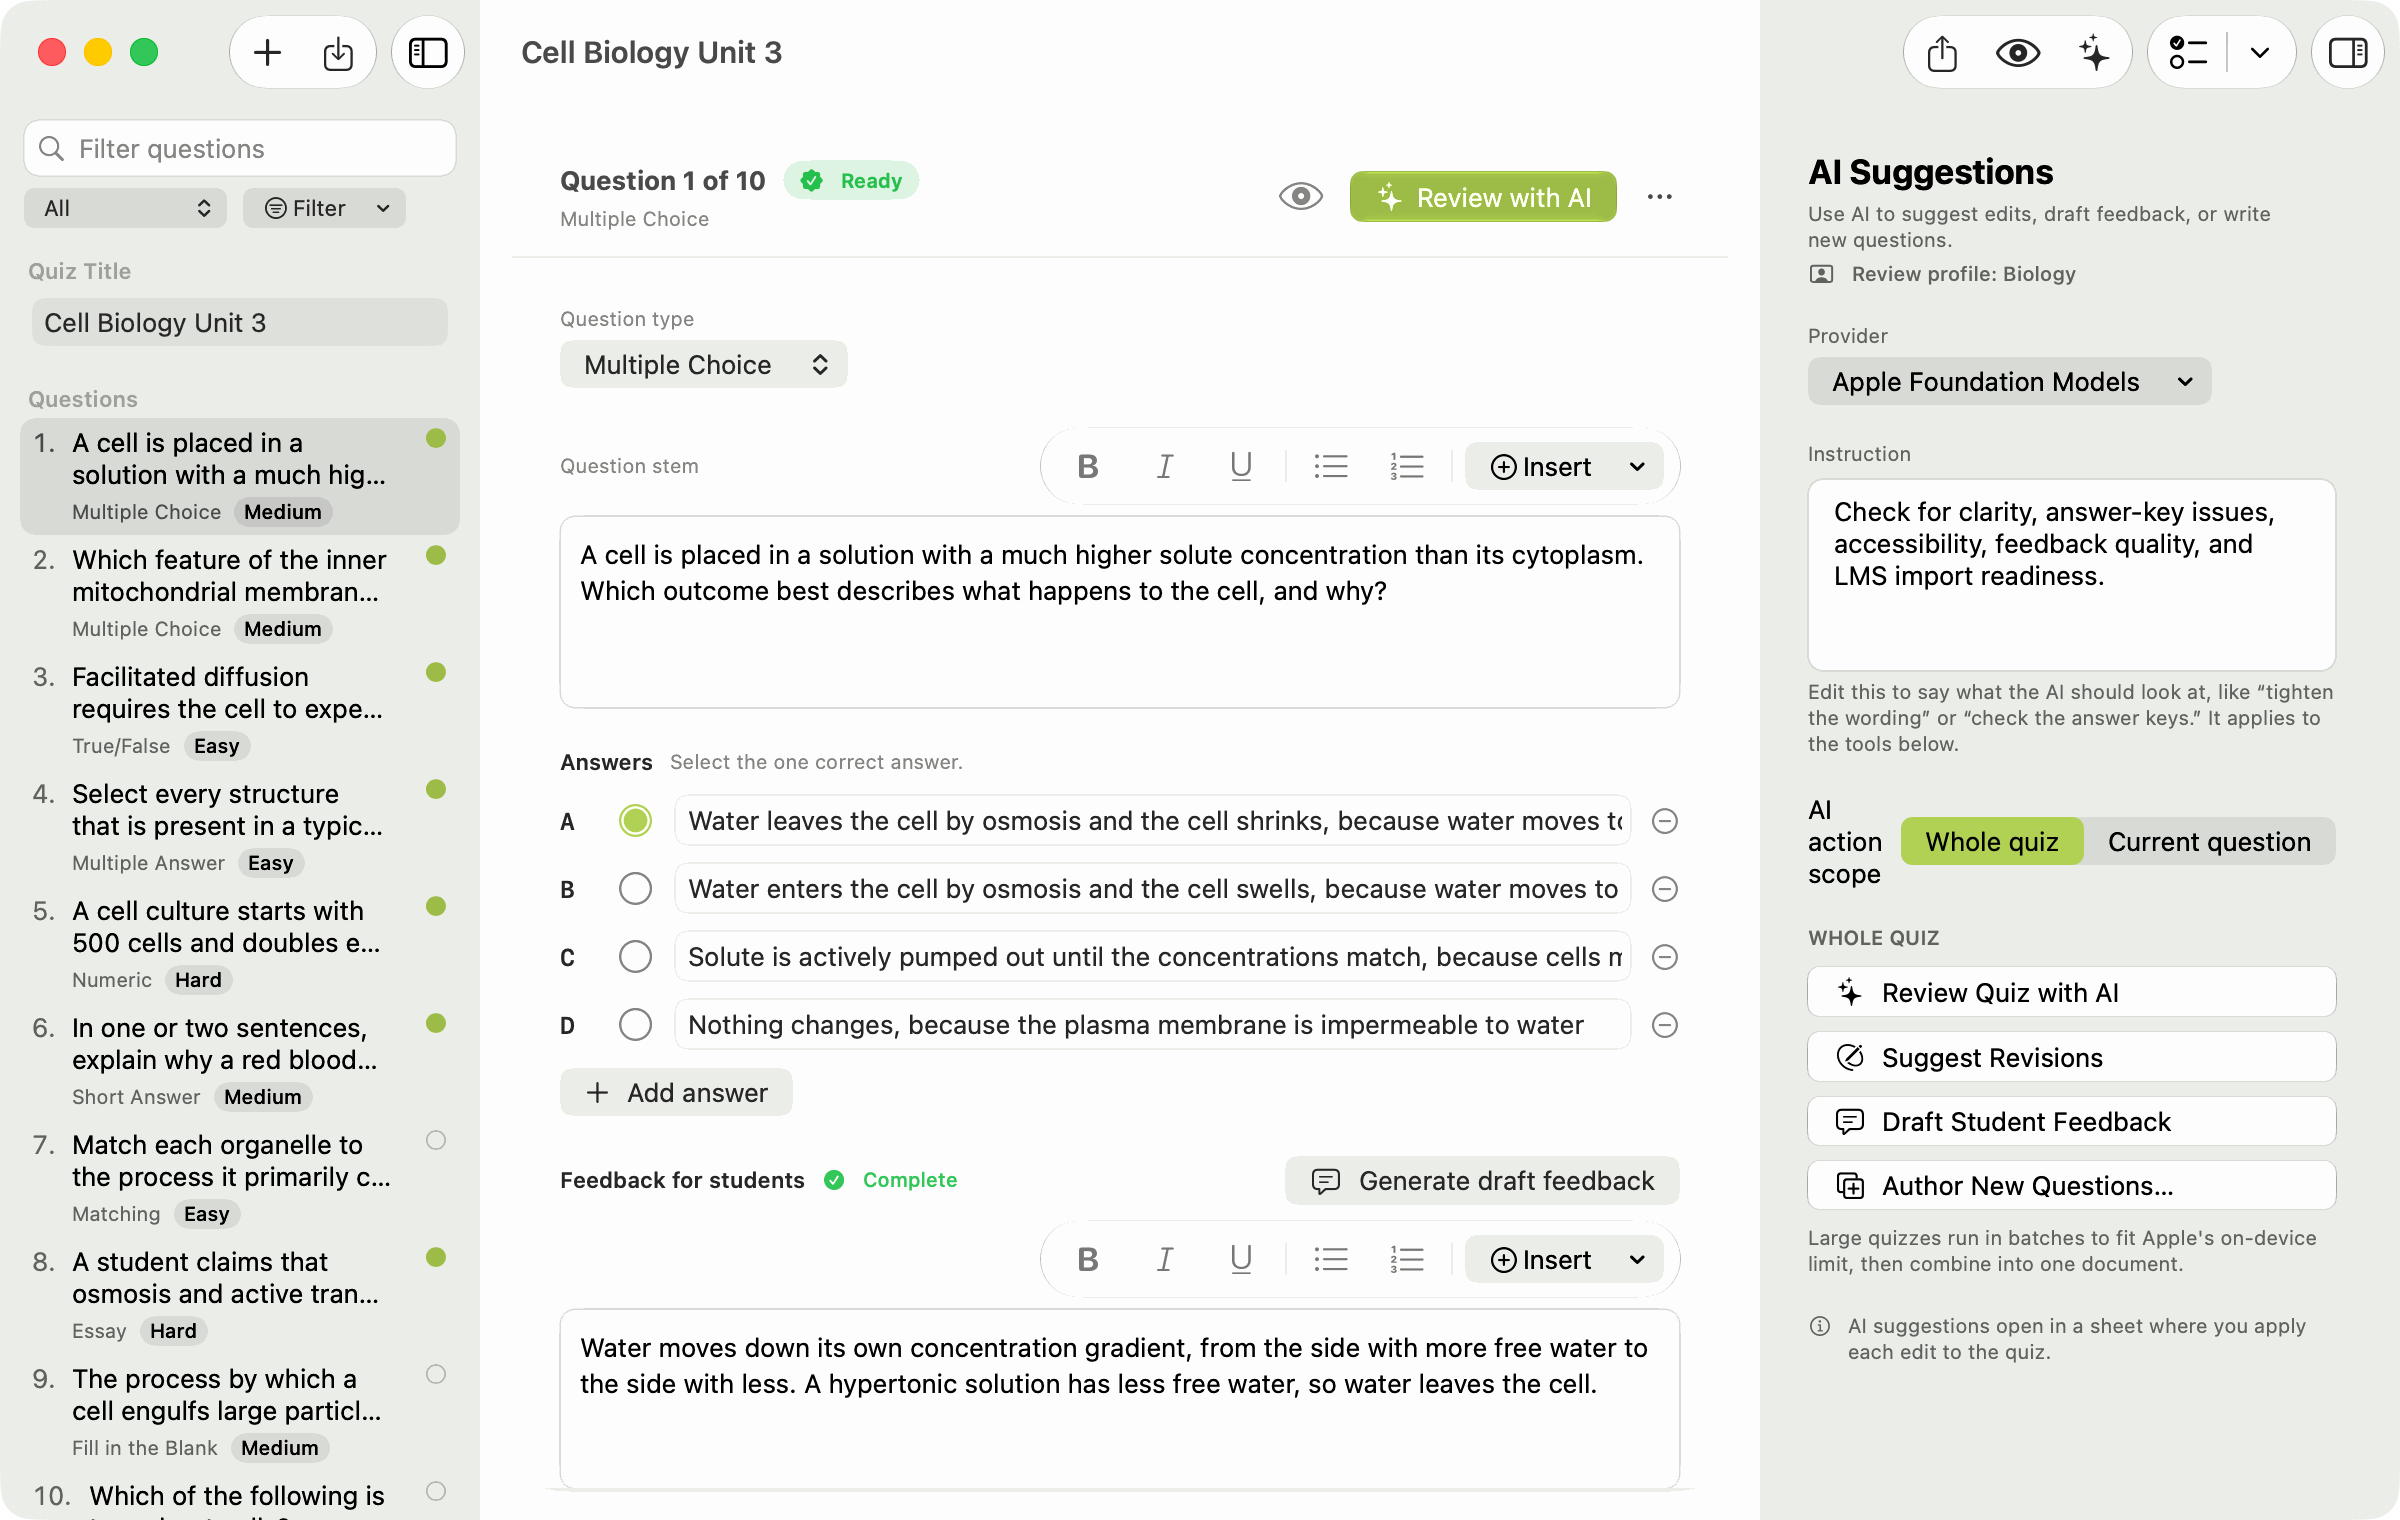
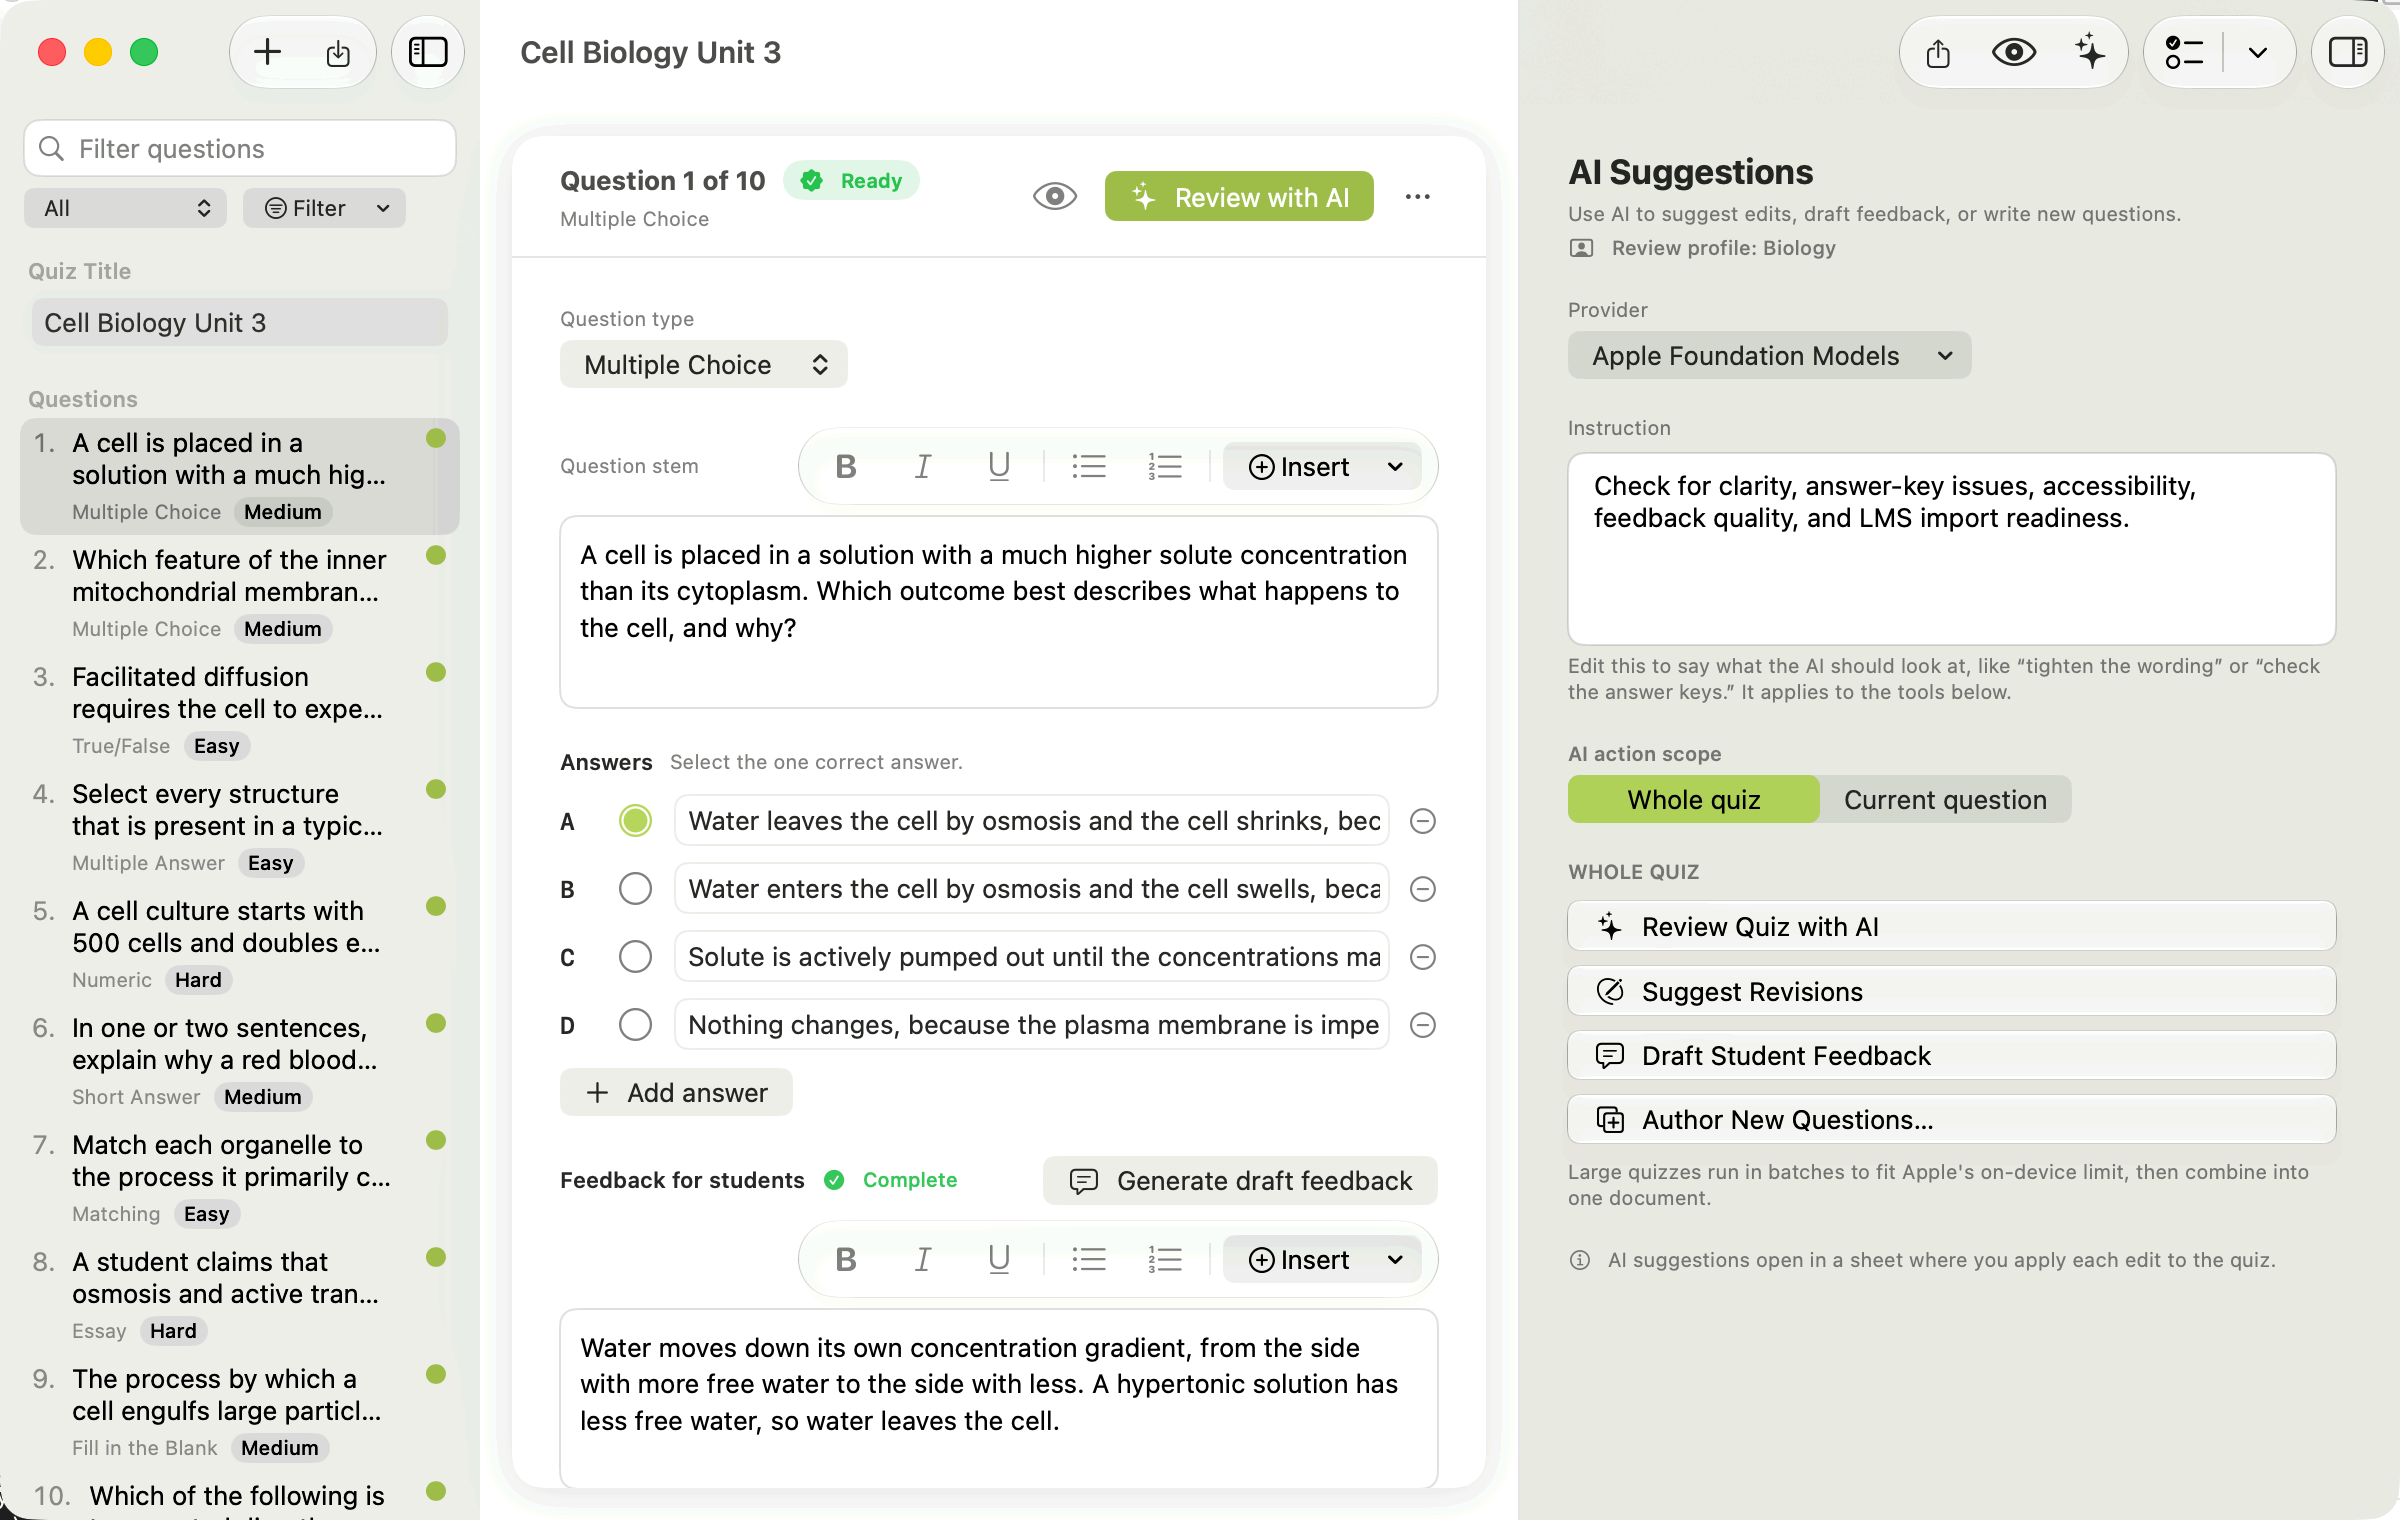
Reshoot the site and README screenshots on the current build
The three app screenshots were taken before the menu bar, Settings window and
toolbar work, and before the AI panel moved out of `.inspector`, so the page was
advertising a UI the app no longer has. All three are retaken at the same
2400x1520 (a 1200x760 window at 2x), from a Cell Biology demo quiz rebuilt to
match the content the old shots used.

- editor.png: the main window, question 1 of 10 selected and Ready, with the
  type and difficulty labels the sidebar filter needs in order to appear.
- ai-review.png: a real on-device Apple Foundation Models review of a
  deliberately weak question, so the before and after diff is genuine output
  rather than a mock.
- import.png: the Common Cartridge picker on a 27 question cartridge across two
  quizzes and five named banks.

Alt text corrected while I was in there:

- The site's ai-review alt described the previous run's critique, which is not
  what the new image shows.
- The README pointed at the Common Cartridge picker under "Import marked plain
  text" and described a completely different sheet. That section now has its own
  screenshot of the Import Marked Text sheet it actually talks about, and
  import.png stays where it belongs on the site.
- The README also still called the panel "AI Assistant"; it is AI Suggestions.

PNGs are palette optimised to keep them near the sizes they replace. The first
attempt used a median-cut palette, which turned the red window control muddy
[…]

diff --git a/docs/index.html b/docs/index.html
@@ -505,7 +505,7 @@ Type: Multiple Choice
       </div>
       <div class="shot reveal d1">
         <img src="screenshots/ai-review.png" width="2400" height="1520" loading="lazy"
-             alt="The AI Suggestions sheet reviewing a rough draft question: a short critique noting a double-barreled stem and the absolute term always, a list of item-writing improvements, and a before-and-after rewrite of the prompt with Apply buttons for each field.">
+             alt="The AI Suggestions sheet reviewing a rough draft question: a short critique noting the stem lacks a single clear claim and that the distractors use vague qualifiers, a list of item-writing improvements, and a before and after rewrite of the prompt with Apply buttons for each field.">
       </div>
     </div>
   </section>

diff --git a/README.md b/README.md
@@ -6,7 +6,7 @@ A native macOS app for authoring, reviewing, and round-tripping quizzes in open 
 
 > Built entirely on Apple frameworks (SwiftUI, AppKit, WebKit). No third-party dependencies.
 
-![Quiz Editor main window — searchable sidebar with type and difficulty labels; question editor with type, points, and difficulty on one row above the prompt and answers; and the AI Assistant panel with whole-quiz and single-question tools](docs/screenshots/editor.png)
+![Quiz Editor main window: a searchable sidebar listing ten questions with their type, difficulty, and a readiness dot; a question editor showing a Ready badge, the question type, the stem, four answer choices with the correct one selected, and student feedback; and the AI Suggestions panel with whole-quiz tools](docs/screenshots/editor.png)
 
 ## Features
 
@@ -30,13 +30,13 @@ A native macOS app for authoring, reviewing, and round-tripping quizzes in open 
 
 ### AI review with a before/after diff
 
-![AI Review sheet showing a before/after diff with per-field apply](docs/screenshots/ai-review.png)
+![The AI Suggestions sheet reviewing a rough draft question: a critique of the vague stem and its qualifiers, a list of item-writing improvements, and a before and after rewrite of the prompt with an Apply button for each field](docs/screenshots/ai-review.png)
 
 ### Import marked plain text
 
 The import field starts empty with a placeholder and a collapsible **formatting guide** (syntax plus a worked example), so the sample text can never be imported by accident.
 
-![Import Marked Text dialog with a correct-answer marker, an empty field showing a placeholder, and a collapsible formatting guide](docs/screenshots/import.png)
+![The Import Marked Text sheet: a correct-answer marker field, a marker position menu, an empty text area showing a placeholder, and a collapsed formatting guide](docs/screenshots/import-marked-text.png)
 
 ## Keyboard shortcuts
 
